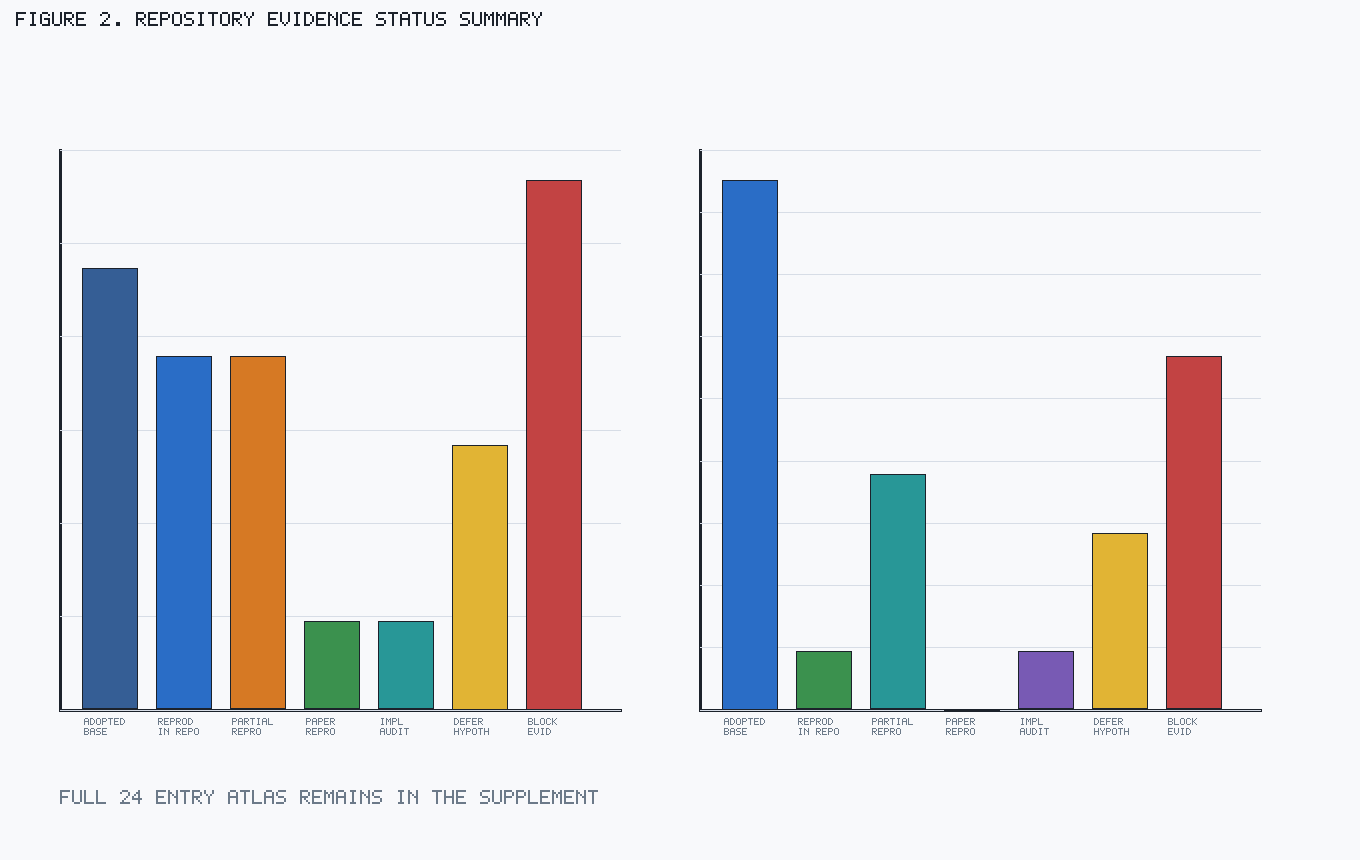
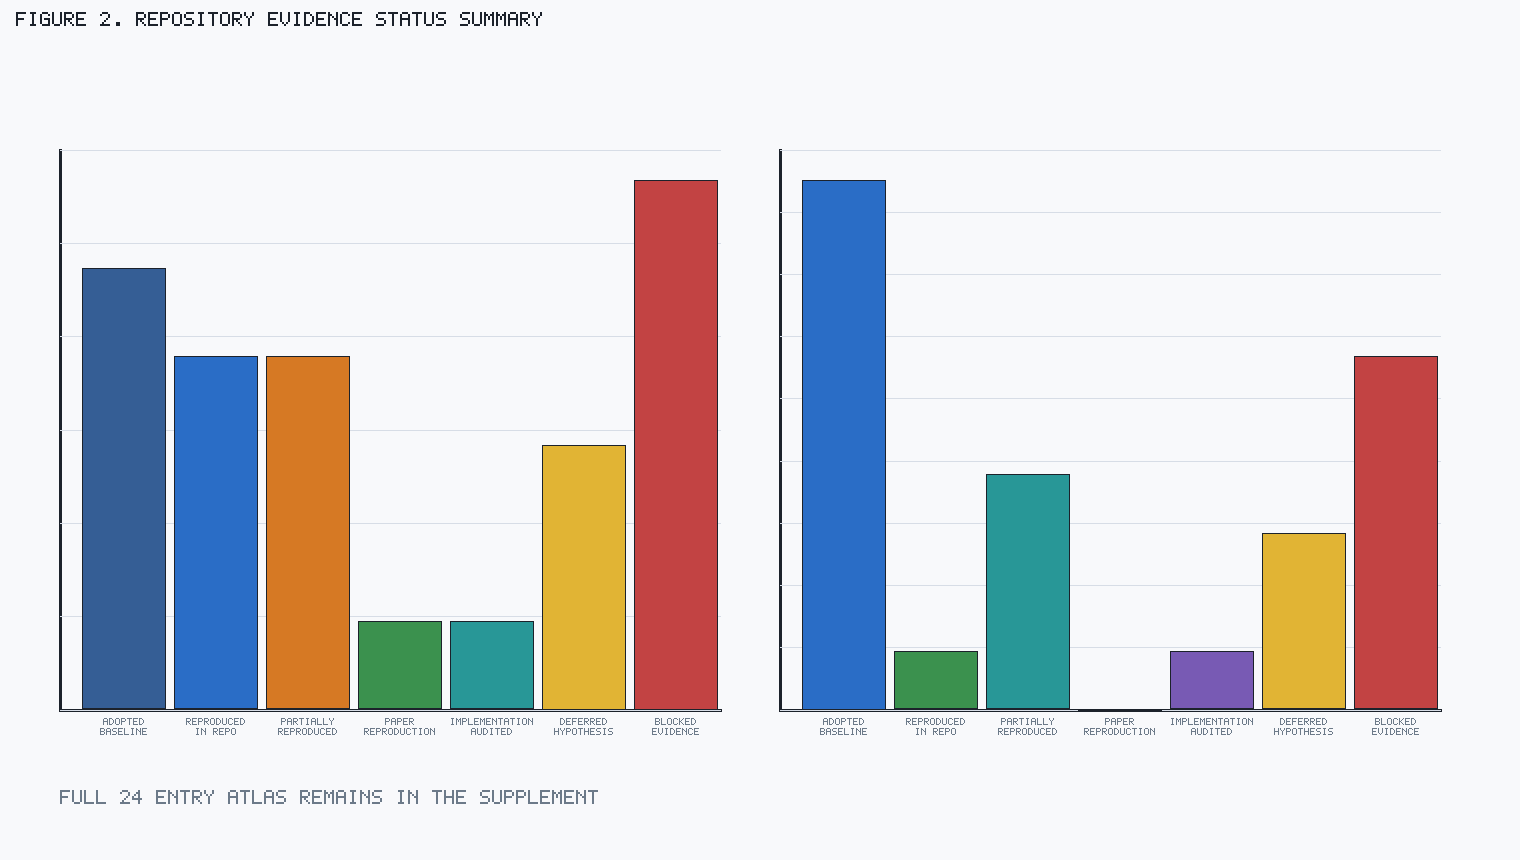
release: align reviewer artifacts with canonical figure sources

Changed region(s): [[0.0309, 0.1814, 0.9574, 0.8767], [0.0309, 0.907, 0.4324, 0.9372], [0.0, 0.0, 0.4015, 0.0302]]

diff --git a/scripts/build_manuscript_figures.py b/scripts/build_manuscript_figures.py
@@ -353,22 +353,22 @@ def figure2_evidence_atlas() -> None:
         "PAPER_REPRODUCTION": PALETTE["orange"],
     }
     display_labels = {
-        "ADOPTED_ENGINEERING_BASELINE": ("Adopted", "base"),
-        "REPRODUCED_IN_REPO": ("Reprod", "in repo"),
-        "PARTIALLY_REPRODUCED": ("Partial", "repro"),
-        "PAPER_REPRODUCTION": ("Paper", "repro"),
-        "IMPLEMENTATION_AUDITED": ("Impl", "audit"),
-        "DEFERRED_HYPOTHESIS": ("Defer", "hypoth"),
-        "BLOCKED_WITH_EVIDENCE": ("Block", "evid"),
+        "ADOPTED_ENGINEERING_BASELINE": ("Adopted", "baseline"),
+        "REPRODUCED_IN_REPO": ("Reproduced", "in repo"),
+        "PARTIALLY_REPRODUCED": ("Partially", "reproduced"),
+        "PAPER_REPRODUCTION": ("Paper", "reproduction"),
+        "IMPLEMENTATION_AUDITED": ("Implementation", "audited"),
+        "DEFERRED_HYPOTHESIS": ("Deferred", "hypothesis"),
+        "BLOCKED_WITH_EVIDENCE": ("Blocked", "evidence"),
     }
-    bundle = make_bundle(1360, 860, "Evidence status summary")
+    bundle = make_bundle(1520, 860, "Evidence status summary")
     add_title(bundle, "Figure 2. Repository evidence status summary", "Descriptive derived summary from 24 normalized repository evidence entries.")
     panels = [
         ("Evidence status counts", 60, status_counts, status_order, STATUS_COLORS, 24),
-        ("Architectural disposition counts", 700, disposition_counts, status_order, {k: rgb_hex(v) for k, v in disposition_palette.items()}, 24),
+        ("Architectural disposition counts", 780, disposition_counts, status_order, {k: rgb_hex(v) for k, v in disposition_palette.items()}, 24),
     ]
     for title, left, counts, order, color_map, label_limit in panels:
-        panel_w = 560
+        panel_w = 660
         top = 150
         height = 560
         max_count = max(counts.values())
@@ -382,8 +382,8 @@ def figure2_evidence_atlas() -> None:
             bundle.svg.line(left, y, left + panel_w, y, stroke=rgb_hex(PALETTE["grid"]), stroke_width=1)
             bundle.svg.text(left - 10, y + 4, str(tick), size=12, fill=rgb_hex(PALETTE["muted"]), anchor="end")
             bundle.png.line(left, int(y), left + panel_w, int(y), PALETTE["grid"], 1)
-        bar_w = 56
-        gap = 18
+        bar_w = 84
+        gap = 8
         for idx, key in enumerate(order):
             count = counts.get(key, 0)
             x = left + 22 + idx * (bar_w + gap)
@@ -397,8 +397,12 @@ def figure2_evidence_atlas() -> None:
             bundle.svg.text(x + bar_w / 2, top + height + 22, line1, size=10, fill=rgb_hex(PALETTE["muted"]), anchor="middle")
             bundle.svg.text(x + bar_w / 2, top + height + 36, line2, size=10, fill=rgb_hex(PALETTE["muted"]), anchor="middle")
             bundle.png.rect(int(x), int(y), bar_w, max(1, int(h)), fill_rgb, PALETTE["ink"])
-            bundle.png.text(int(x + 2), top + height + 8, line1[:10].upper(), PALETTE["muted"], scale=1)
-            bundle.png.text(int(x + 2), top + height + 18, line2[:10].upper(), PALETTE["muted"], scale=1)
+            line1_upper = line1.upper()
+            line2_upper = line2.upper()
+            line1_x = int(x + max(0, (bar_w - len(line1_upper) * 6) // 2))
+            line2_x = int(x + max(0, (bar_w - len(line2_upper) * 6) // 2))
+            bundle.png.text(line1_x, top + height + 8, line1_upper, PALETTE["muted"], scale=1)
+            bundle.png.text(line2_x, top + height + 18, line2_upper, PALETTE["muted"], scale=1)
     bundle.svg.text(60, 790, "This figure summarizes registry counts only; the full 24-entry per-hypothesis atlas remains supplementary.", size=14, fill=rgb_hex(PALETTE["muted"]))
     bundle.png.text(60, 790, "FULL 24 ENTRY ATLAS REMAINS IN THE SUPPLEMENT", PALETTE["muted"], scale=2)
     bundle.svg.save(FIG_DIR / "figure2_evidence_atlas.svg")